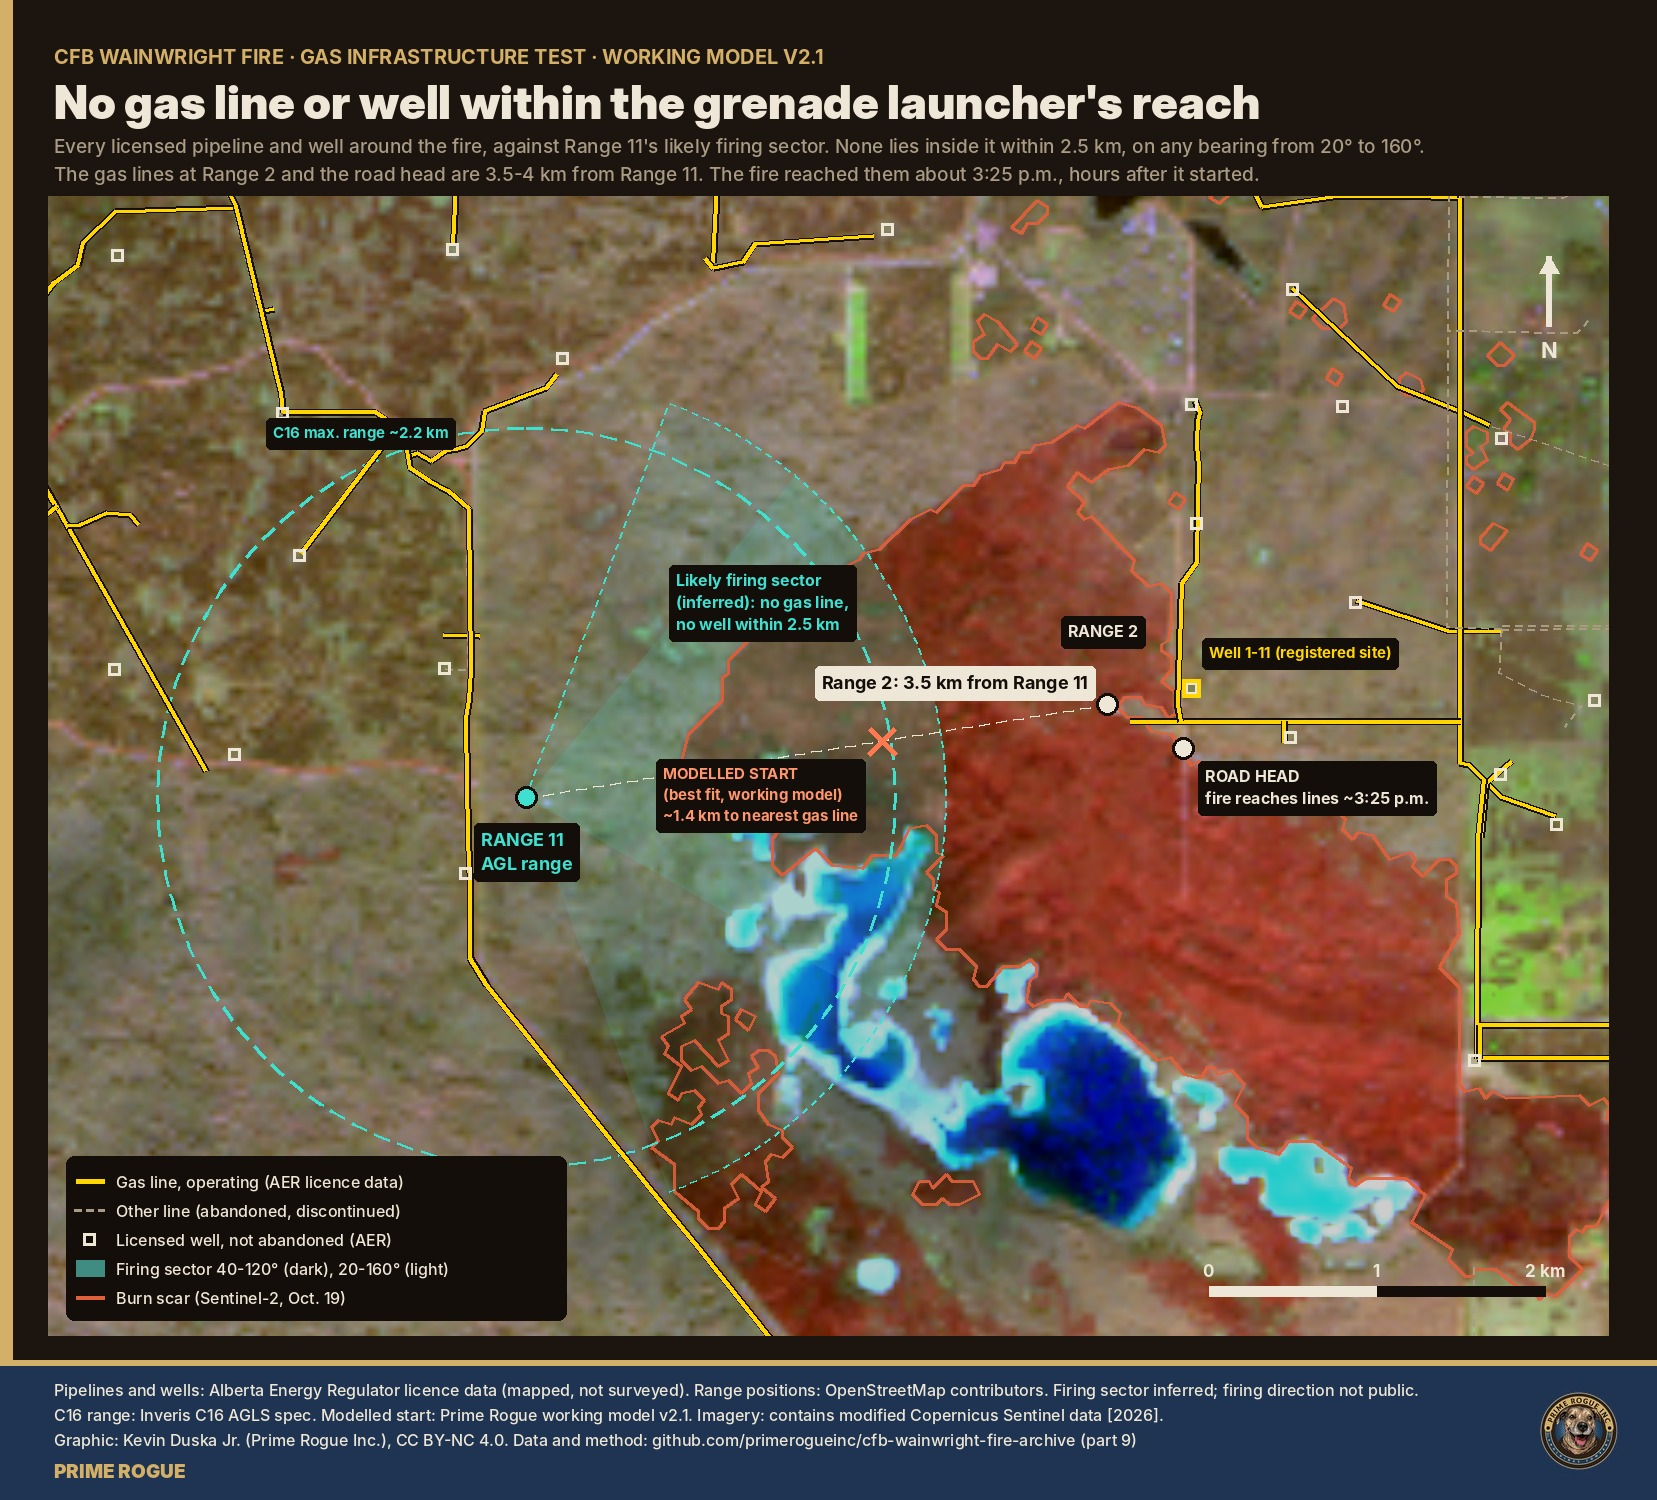
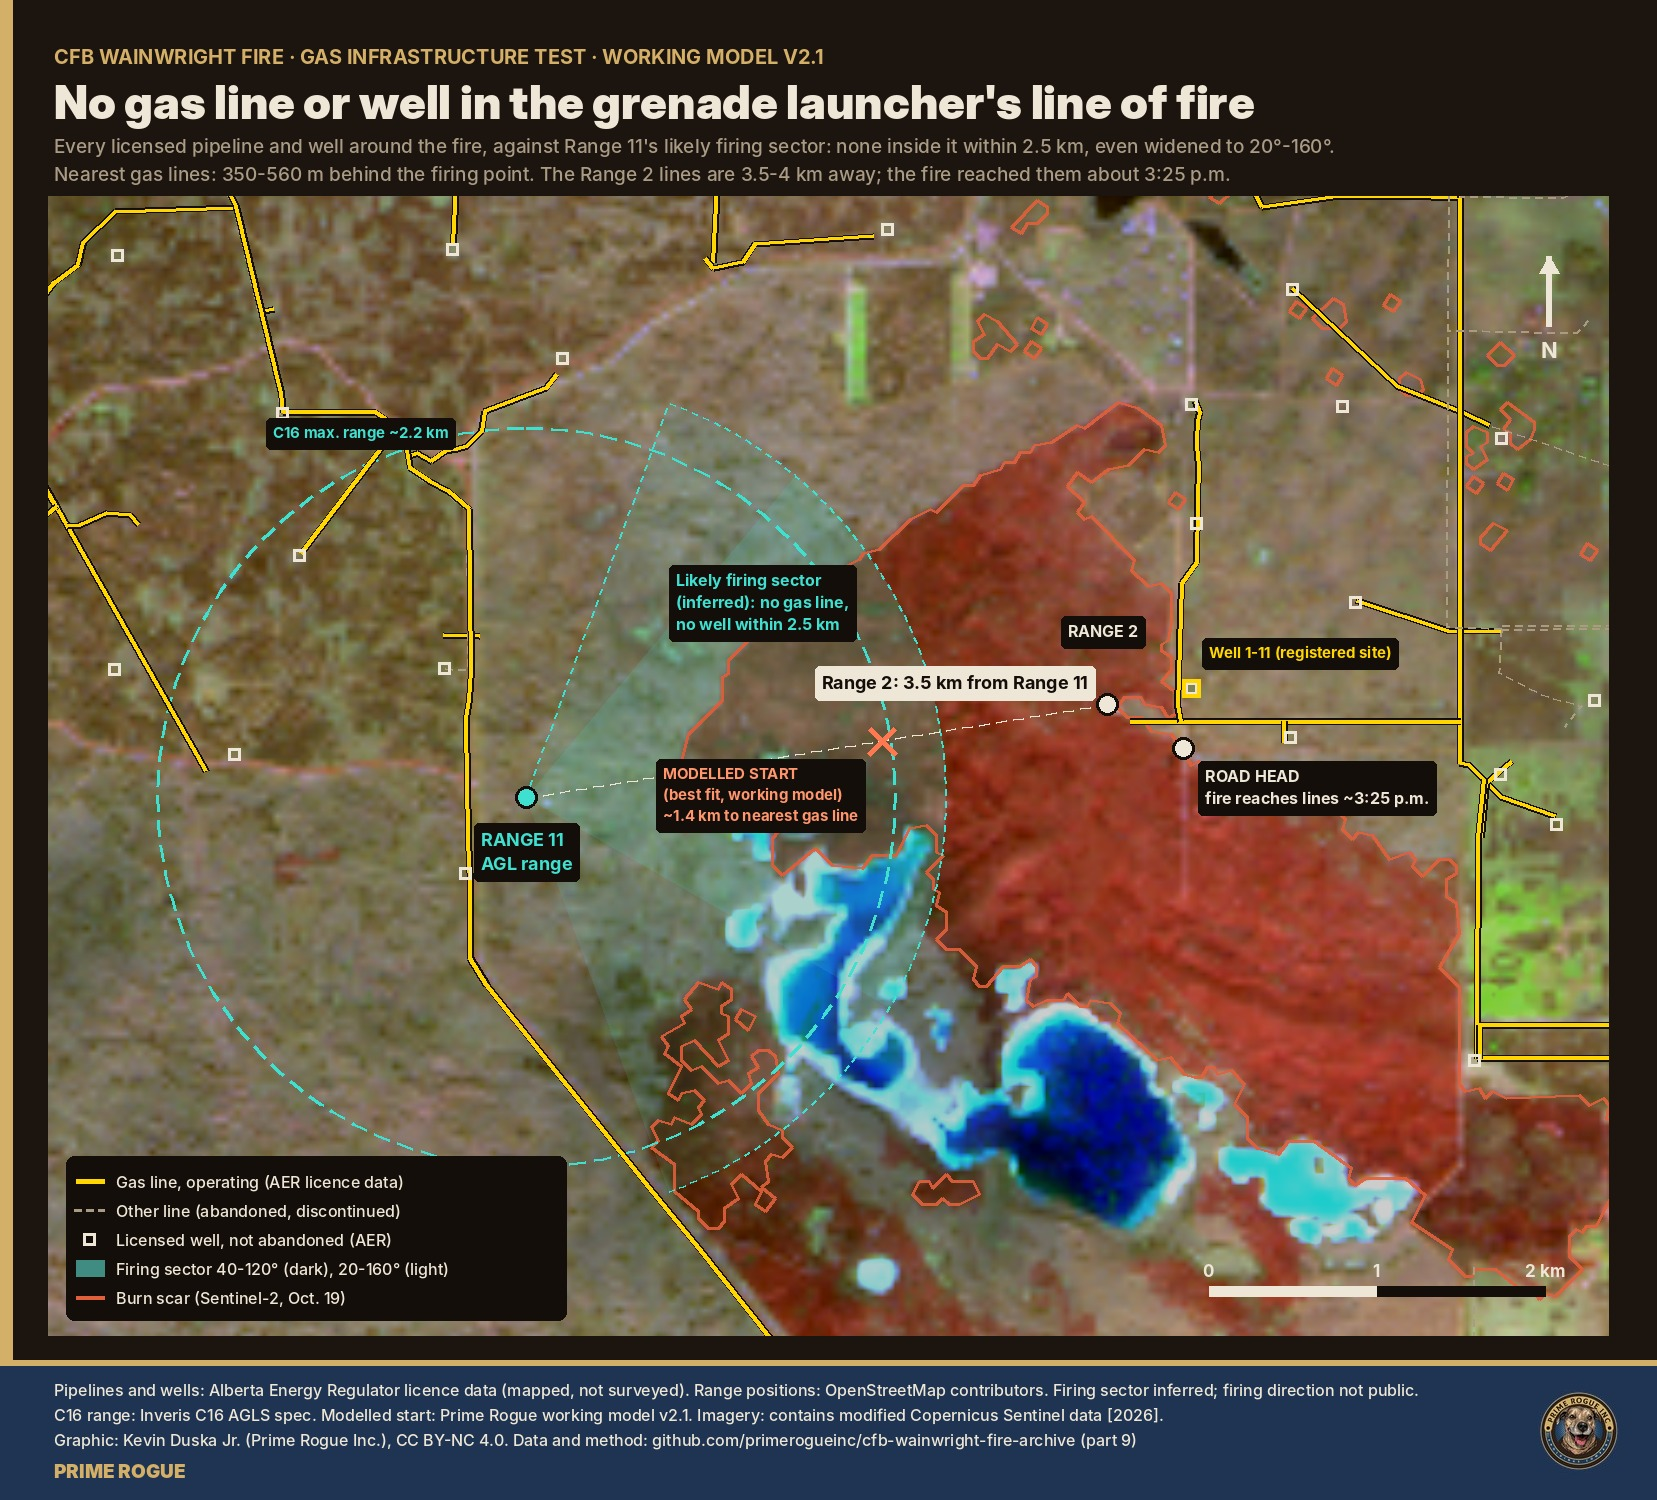
Graphics: gas test wording (line of fire, large methane leak); noon photograph social card
Claude-Session: https://claude.ai/code/session_012q8DP5dH322QPmsftUvE6c

Changed region(s): [[0.0308, 0.0613, 0.8618, 0.1227]]

diff --git a/scripts/maps/g25_noon_og.py b/scripts/maps/g25_noon_og.py
@@ -1,0 +1,23 @@
+import sys; sys.path.insert(0, "vis")
+from pr import *
+from pr import _LOGO
+def make(W, H, out, pad_title=62):
+    im = Image.new("RGBA", (W, H), BG + (255,)); d = ImageDraw.Draw(im)
+    ph = Image.open("vis/_landsat_clean_crop.png").convert("RGBA")
+    crop = ph.resize((int(H * ph.size[0] / ph.size[1]), H))
+    im.paste(crop, (W - crop.size[0], 0))
+    grad = Image.new("L", (W, H), 0); gd = ImageDraw.Draw(grad)
+    for x in range(W): gd.line([(x, 0), (x, H)], fill=int(255 * max(0, min(1, (W * 0.78 - x) / (W * 0.3)))))
+    im.paste(Image.new("RGBA", (W, H), BG + (255,)), (0, 0), grad)
+    d = ImageDraw.Draw(im); d.rectangle([0, 0, 12, H], fill=GOLD)
+    d.text((54, 44), "CFB WAINWRIGHT FIRE · LANDSAT 8 · 12:17 P.M., OCT. 17", font=B(20), fill=GOLD)
+    y = 84
+    for l in ["The noon", "photograph"]: d.text((54, y), l, font=D(pad_title), fill=CREAM); y += pad_title + 8
+    for k, t in enumerate(["Start: grenade launcher range's impact area", "Gas lines cold at noon; no sign of a gas fire", "C Company findings essentially unchanged"]):
+        d.text((54, y + 30 + k * 40), "• " + t, font=M(24), fill=CREAM)
+    d.rectangle([0, H - 96, W, H], fill=NAVY); d.rectangle([0, H - 96, W, H - 91], fill=GOLD)
+    d.text((54, H - 70), "Working model v3 · primerogueinc.com", font=M(19), fill=CREAM)
+    d.text((54, H - 22), "PRIME ROGUE", font=K(19), fill=GOLD, anchor="lb"); im.paste(_LOGO, (W - 84 - 36, H - 96 + 8))
+    im.convert("RGB").save(out, quality=92)
+make(1200, 630, "v3kit/images/cfb-wainwright-noon-photograph-og.jpg")
+make(1280, 720, "v3kit/images/cfb-wainwright-noon-photograph-thumbnail.jpg", pad_title=80)

diff --git a/scripts/maps/g20_gas_atmos.py b/scripts/maps/g20_gas_atmos.py
@@ -25,7 +25,7 @@ ph = A[0].size[1]
 Wc = L * 2 + 3 * PW + 2 * GAP; Hc = TOP + 44 + ph + 70 + 44 + ph + 40 + 140
 im, d = canvas(Wc, Hc, "CFB WAINWRIGHT FIRE · GAS INFRASTRUCTURE TEST · WORKING MODEL V2.1",
                "The air showed no sign of a gas leak, but it can't settle the question",
-               "Sentinel-5P (TROPOMI) over the base. Its Oct. 17 pass came at 2:34 p.m., about 50 minutes before the fire reached the gas lines, and cloud blanked carbon\nmonoxide and methane over the base. Smoke haze was no higher than the day before. On Oct. 18, methane coverage was good: no leak at or downwind of the base.")
+               "Sentinel-5P (TROPOMI) over the base. Its Oct. 17 pass came at 2:34 p.m., about 50 minutes before the fire reached the gas lines, and cloud blanked carbon\nmonoxide and methane over the base. Smoke haze was no higher than the day before. On Oct. 18, methane coverage was good: no sign of a large leak at or downwind.")
 y0 = TOP + 44
 d.text((L, y0 - 34), "UV AEROSOL INDEX (SMOKE AND HAZE)", font=B(19), fill=GOLD)
 for k, (pn, t, v) in enumerate(zip(A, ["Oct. 16 · 2:53 p.m. (before)", "Oct. 17 · 2:34 p.m. (fire day)", "Oct. 18 · 2:15 p.m. (after)"], ["0.40", "0.38", "0.24"])):

diff --git a/scripts/maps/g18_gas_map.py b/scripts/maps/g18_gas_map.py
@@ -8,8 +8,8 @@ m = Map(-111.000, -110.862, 52.739, 52.800, 168)
 TOP, L = 196, 48
 Wc, Hc = m.w + 2 * L, TOP + m.h + 24 + 140
 im, d = canvas(Wc, Hc, "CFB WAINWRIGHT FIRE · GAS INFRASTRUCTURE TEST · WORKING MODEL V2.1",
-               "No gas line or well within the grenade launcher's reach",
-               "Every licensed pipeline and well around the fire, against Range 11's likely firing sector. None lies inside it within 2.5 km, on any bearing from 20° to 160°.\nThe gas lines at Range 2 and the road head are 3.5-4 km from Range 11. The fire reached them about 3:25 p.m., hours after it started.")
+               "No gas line or well in the grenade launcher's line of fire",
+               "Every licensed pipeline and well around the fire, against Range 11's likely firing sector: none inside it within 2.5 km, even widened to 20°-160°.\nNearest gas lines: 350-560 m behind the firing point. The Range 2 lines are 3.5-4 km away; the fire reached them about 3:25 p.m.")
 base = m.base(bright=0.8)
 ov = Image.new("RGBA", base.size, (0, 0, 0, 0)); o = ImageDraw.Draw(ov)
 R11 = (52.7678, -110.9577)

diff --git a/scripts/maps/g21_gas_hero.py b/scripts/maps/g21_gas_hero.py
@@ -6,7 +6,7 @@ ROWS = [
  ("Fire heat (GOES-18)", "Heat rose with the wind shift and spread along the front; none after 3:40 p.m.\nClear skies from ~7:30 p.m.: no hot spot all night.", "POINTS AWAY", TEAL),
  ("Burn scars (Sentinel-2)", "No scorch circle on the lines; the burn was lighter there. The well's site did not burn.", "POINTS AWAY", TEAL),
  ("The air, Oct. 17 (Sentinel-5P)", "Passed at 2:34 p.m., before the fire reached the lines; cloud over the base.", "CAN'T TELL", MUTED),
- ("The air, Oct. 18 (Sentinel-5P)", "No methane leak at or downwind of the base the next day.", "POINTS AWAY", TEAL),
+ ("The air, Oct. 18 (Sentinel-5P)", "No sign of a large methane leak at or downwind of the base the next day.", "POINTS AWAY", TEAL),
  ("The paperwork", "Regulator (Oct. 18): no incident reports. But the wells were under a suspension order\nand, per the operator, had not been shut in. Lines were probably live.", "OPEN", GOLD),
 ]
 W, H = 1700, 1185
